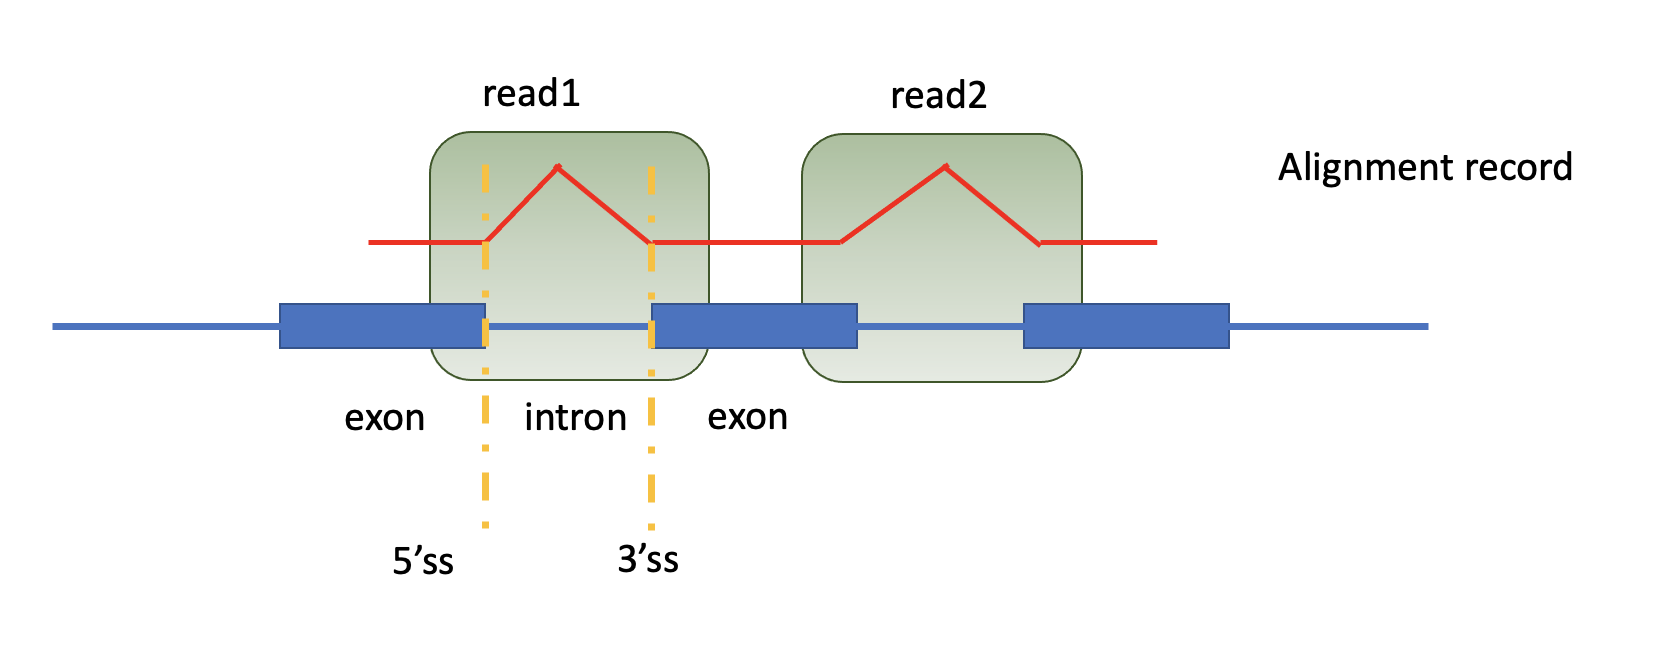
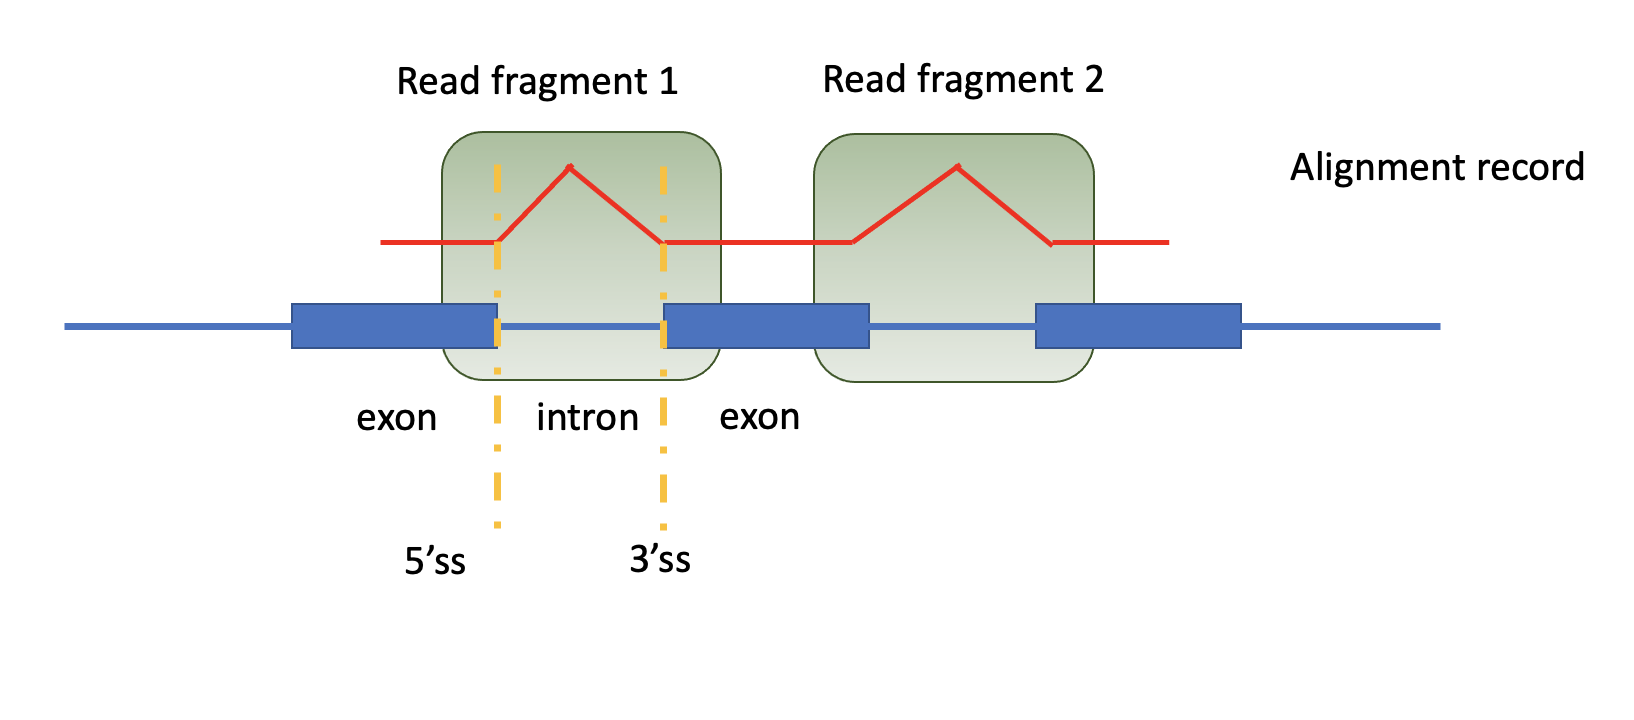
update bam_to_bed guidance for monday meeting

diff --git a/src/bam_to_bed/README.md b/src/bam_to_bed/README.md
@@ -10,30 +10,36 @@
 
 1. Iterating each alignment record in bam file, we only look at record whose cigar string contains "N" (Here we don't consider soft clip, hard clip or padded alignment scenarios). The "N" indicates this alignment record spans at least one intron, which supports the existence of a junction.
 
-2. Programatically, a junction is uniquely defined by four elements: `(chromosome, 5' splice site position, 3' splice site position, strand)`. As an exmaple, (chr1,45666,45789,+). A junction can have multiple supportive reads, as long as the read spans this junction. So we create a dictionary-like object `junction_db` where the key is a tuple (4 elements defining a junction), and the values are all the reads that can support this junction (a list). Again, let's illustrate that using an example:
+2. Programatically, a junction is uniquely defined by four elements: `(chromosome, 5' splice site position, 3' splice site position, strand)`. As an exmaple, (chr1,45666,45789,+). A junction can have multiple supportive junction read fragments, a read fragment can support a junction if it spans the junctio region. So we create a dictionary-like object `junction_db` where the key is a tuple (4 elements defining a junction), and the values are all the read fragments that can support this junction (a list). Again, let's illustrate that using an example:
 
 ```python
 # junction1 
 
 key: (chr1,45666,45789,+)
-value: [(read1_start_pos, read1_start_pos + read1_length, read1_intron_length),
-(read2_start_pos, read2_start_pos + read2_length, read2_intron_length),
+value: [(read_fragent_1_start_pos, read_fragment_1_start_pos + read_fragment_1_length, read_fragment_1_intron_length),
+(read_fragment_2_start_pos, read_fragment_2_start_pos + read_fragment_2_length, read_fragment_2_intron_length),
 ...]
 
 ```
 
-Noting that an alignment record in the bam file, can contain multiple reads (See image below, this alignment record contains 2 reads), and this definision is just for illustrative purpose, it is not generic across the whole field.
+Noting that an alignment record in the bam file, can contain multiple read fragments (See image below, this alignment record contains 2 read fragments), and this definision is just for illustrative purpose, it is not generic across the whole field.
 
-So the end goal through this iteration is to generate this `junction_db`. In each alignment record, we further iterate over the reads it may contains (like I said, a record can contain multiple reads), we retrived (a) junction this read spans along with the four essential information that can define this junction, (b) the start position, read length, and intron length of the read.
+So the end goal through this iteration is to generate this `junction_db`. In each alignment record, we further iterate over the read fragments it may contains (like I said, a record can contain multiple read fragments), we retrived (a) junction this read fragment spans along with the four essential information that can define this junction, (b) the start position, read length, and intron length of the read fragment.
 
 ![splice_site](splice_site.png)
 
 3. After having this `junction_db`, we are going to write them to a bed file. See example output [Here](junction_bed.csv). (**How does the junction definition (4 infomation) transform to the bed file? Need to chat with Nathan**)
 
 
-4. Additionally, we identify the intron retention event. This is a new round of iteration through all the alignment records in the bam file. The definition of the intron comes from the exonReference file (**Still need to be more specific, need to chat with Nathan**). And to call a intron retention event out, it needs to meet two criteria specified in the image below. See exmaple output [Here](intron_bed.csv).
+4. Additionally, we identify the intron retention event. This is a new round of iteration through all the alignment records in the bam file. The definition of the intron comes from the exonReference file (**Still need to be more specific, need to chat with Nathan**). And to call a intron retention event out, it needs to meet some critetia specified in the image below. See exmaple output [Here](intron_bed.csv).
 
-![intron](intron.png)
+If we are dealing with single-end data:
+
+![intron_single_end](intron_single_end.png)
+
+If the data is pair-end:
+
+![intron_pair_end](intron_pair_end.png)
 
 
 ## Output
